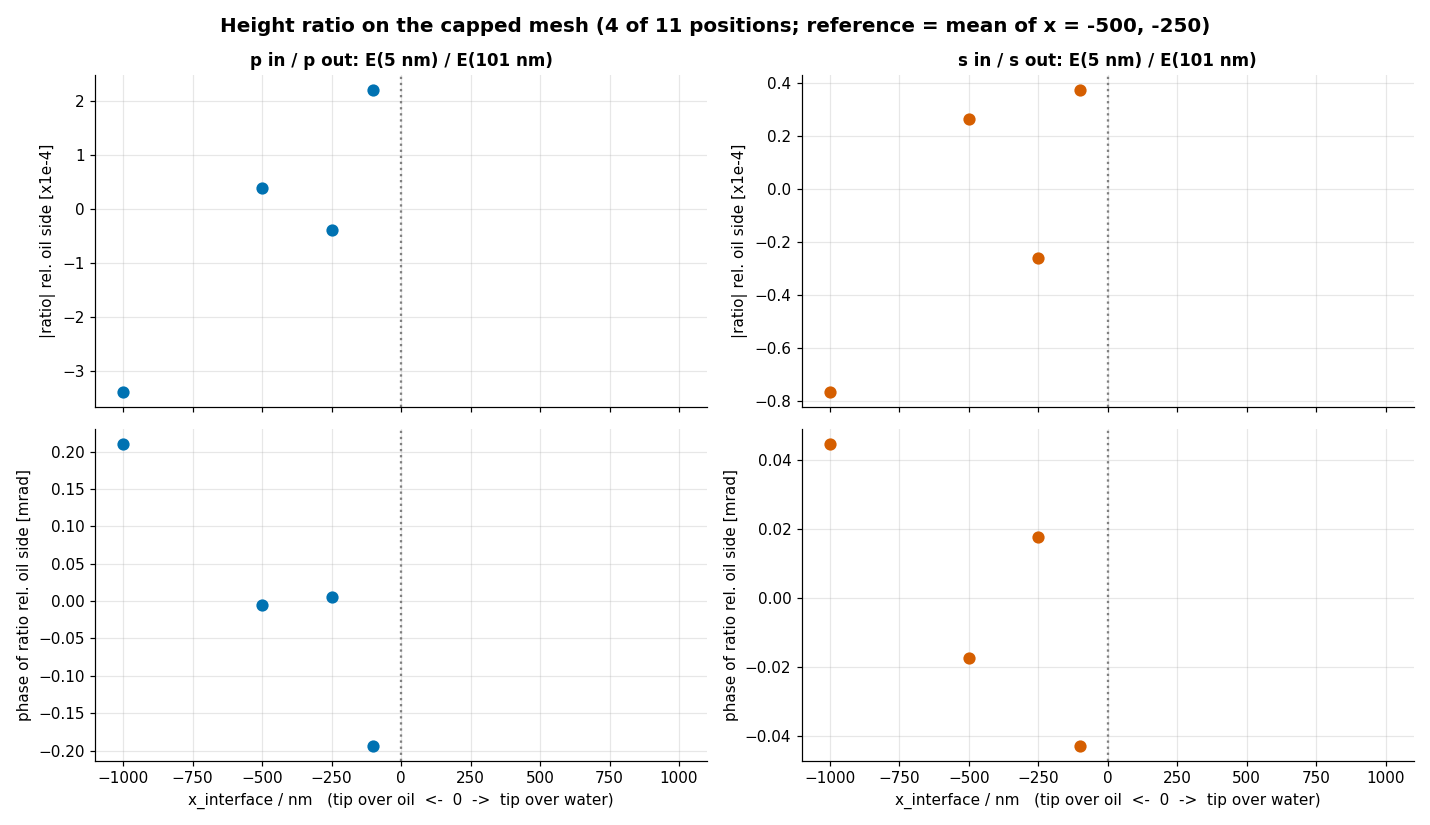
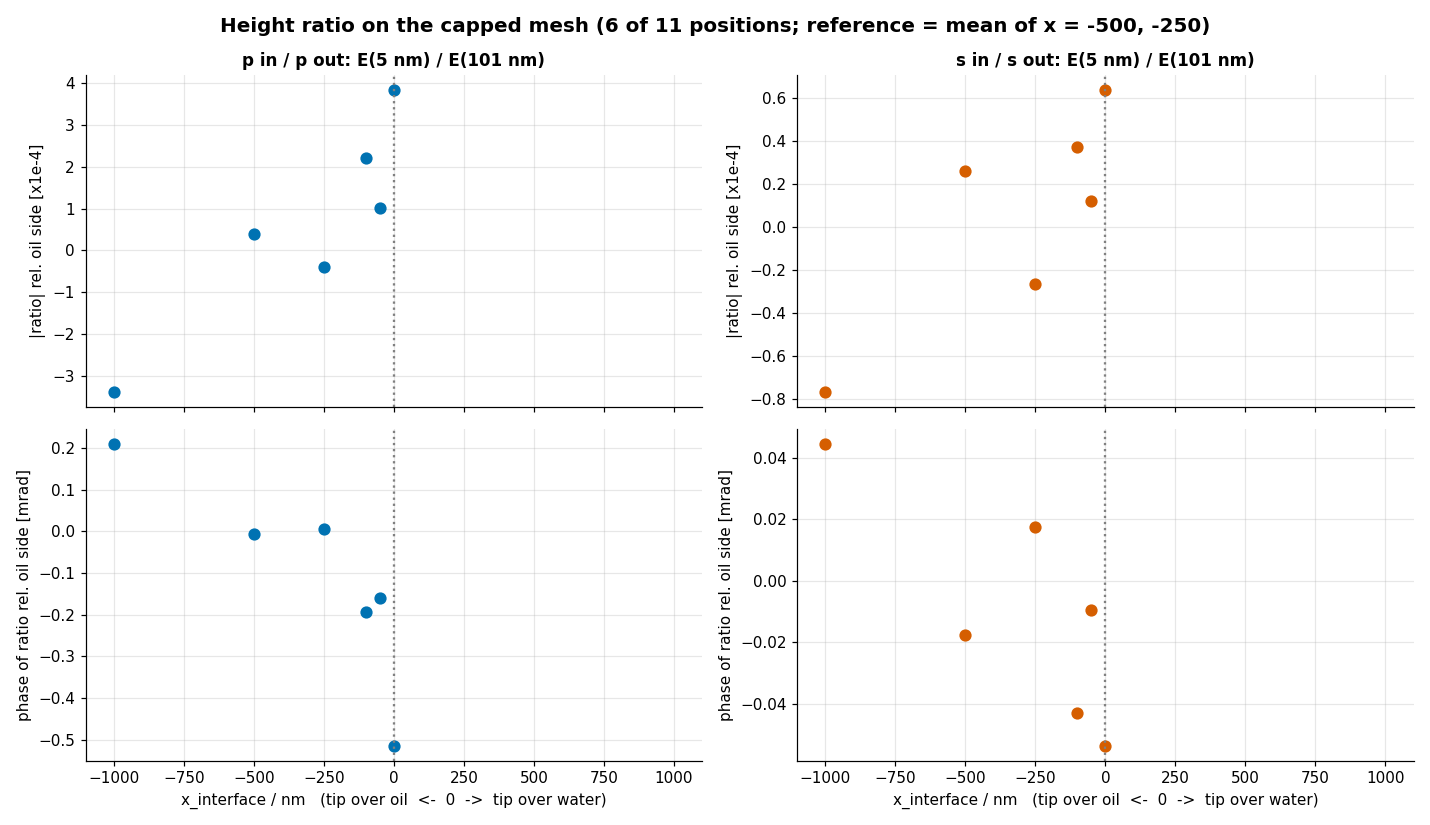
Add -800 / -700 / -600 to the capped 5 nm and 101 nm scans
Checks whether the -1000 anomaly (35 % more unknowns in the solver, outlier
in E(5) - E(101)) is isolated; the mesh check found ordinary initial
meshes (70 - 77k tetrahedra) at all three positions. Rerunning
linescan_h5_oilcap / linescan_h101_oilcap solves only the new points.
Also adds figures 11 / 11b (height difference with p/s), 16 (mesh size vs
x), 17 (mesh check) and 18 (field slices with mesh overlay).

diff --git a/Interface_LineScan_3D/run_linescan.py b/Interface_LineScan_3D/run_linescan.py
@@ -67,8 +67,9 @@ HEIGHTS_DENSE = sorted(set(list(range(1, 11)) + list(range(12, 31, 2)) + list(ra
 
 # Interface positions (nm): 5 nm steps within +-50 nm, sparser out to +-300 nm
 X_SCAN = sorted(set([-300, -200, -150, -100, -75] + list(range(-50, 51, 5)) + [75, 100, 150, 200, 300]))
-# Oil / water-capped mesh runs: sparse, symmetric (11 positions, ~13 h for both heights)
-X_CAP = [-1000, -500, -250, -100, -50, 0, 50, 100, 250, 500, 1000]
+# Oil / water-capped mesh runs: sparse, symmetric, plus -800 / -700 / -600 to check whether the
+# -1000 anomaly (35 % more unknowns in the solver, outlier in E(5) - E(101)) is isolated
+X_CAP = [-1000, -800, -700, -600, -500, -250, -100, -50, 0, 50, 100, 250, 500, 1000]
 
 STAGES = {
     'converge':     dict(mesh='coarse_3steps', wvl=6.1, x=[0], gaps=[1, 2, 3, 4, 5, 6], save_fields=True),
